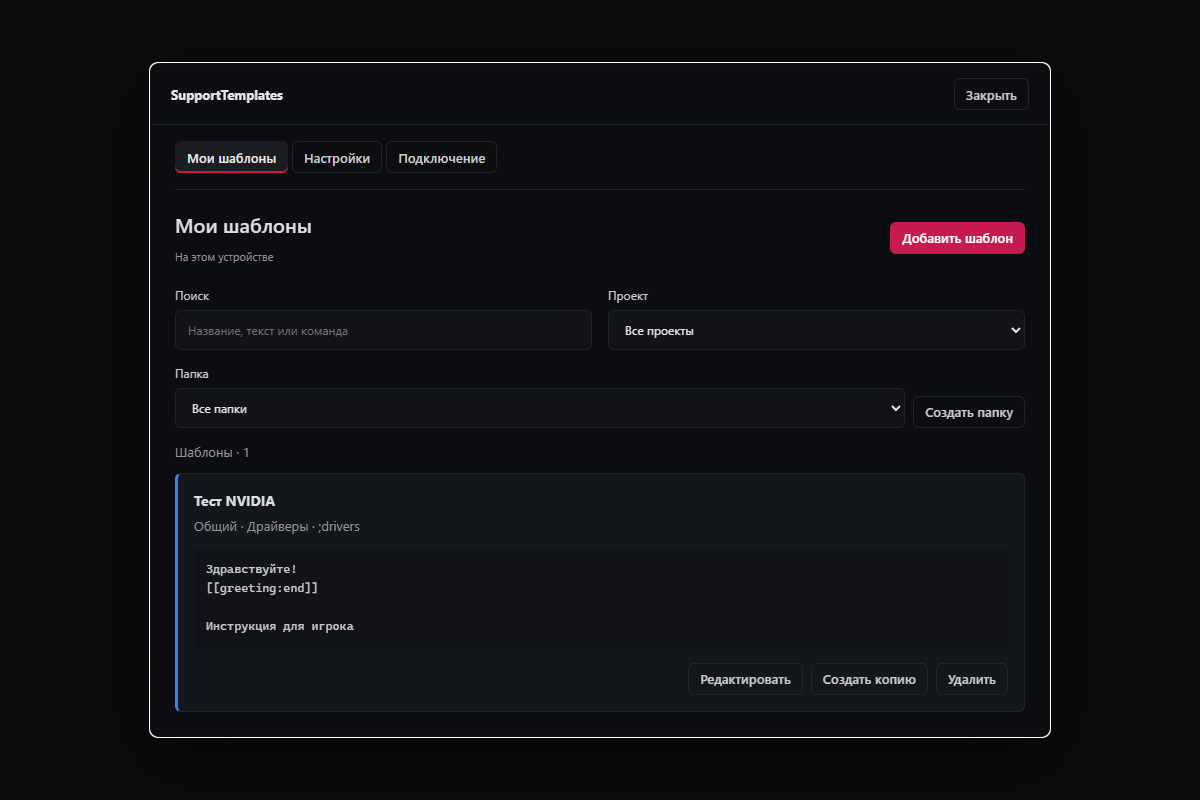
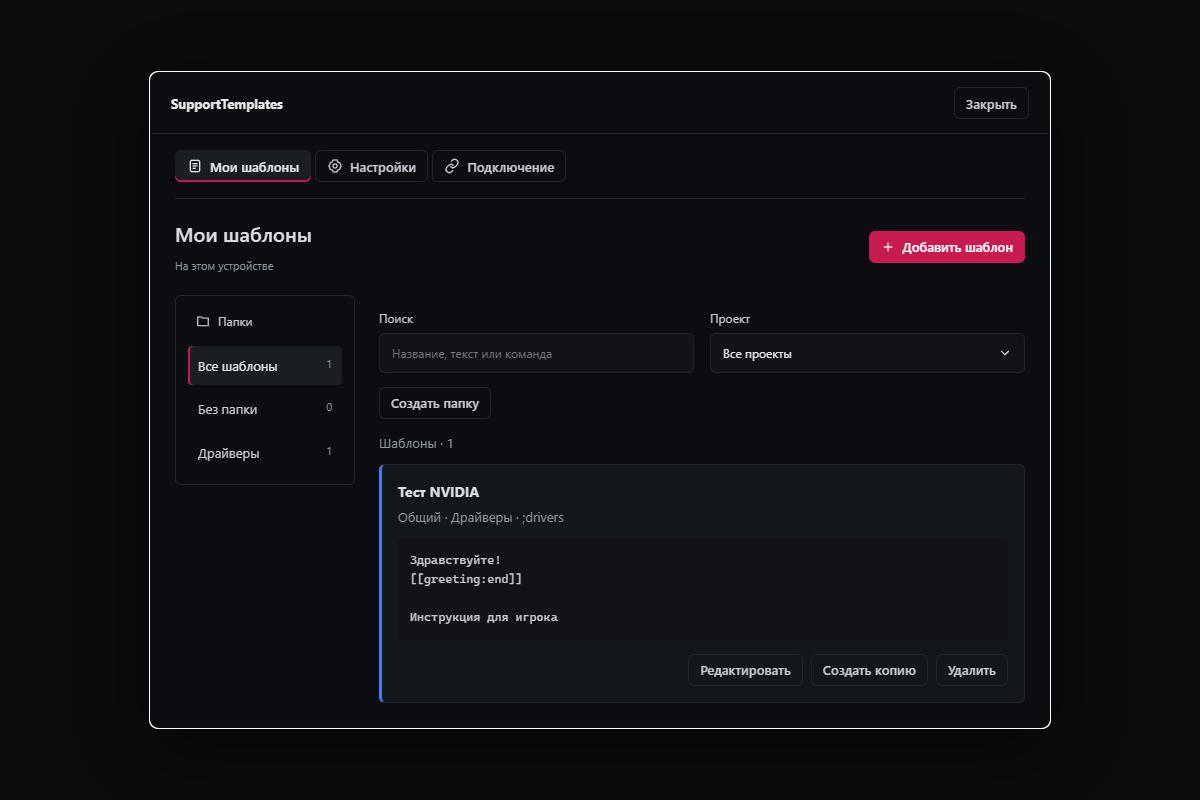
Polish template library and record live Discord demo acceptance

diff --git a/src/vencord/ui/PersonalLibrary.tsx b/src/vencord/ui/PersonalLibrary.tsx
@@ -10,6 +10,8 @@ import { PERSONAL_COLORS, PersonalDraft, PersonalTemplate } from "../core/person
 import { insertToken } from "../core/tokenEditor";
 import { ProjectId } from "../core/types";
 import { demo } from "./demo";
+import { Select } from "./Select";
+import { IconFolder, IconPlus } from "./svg";
 import { TokenToolbar } from "./TokenToolbar";
 import { store, useStore } from "./uiState";
 
@@ -73,7 +75,7 @@ export function PersonalLibrary({ onDirty }: { onDirty?(dirty: boolean): void; }
 
     return <section className="vc-stx-library">
         <div className="vc-stx-lib-title"><div><h3>Мои шаблоны</h3><span className="vc-stx-storage-note">{isDemo ? "Демо · до выхода" : "На этом устройстве"}</span></div>
-            {!editing && <button className="vc-stx-btn" disabled={!!folderEdit || busy} onClick={() => begin()}>Добавить шаблон</button>}</div>
+            {!editing && <button className="vc-stx-btn" disabled={!!folderEdit || busy} onClick={() => begin()}><IconPlus />Добавить шаблон</button>}</div>
         {error && <p role="alert" className="vc-stx-form-error">{error}</p>}
         {notice && <p role="status">{notice}</p>}
         {editing ? <form className="vc-stx-personal-form" onSubmit={e => { e.preventDefault(); void run(async () => {
@@ -95,8 +97,8 @@ export function PersonalLibrary({ onDirty }: { onDirty?(dirty: boolean): void; }
                     {PERSONAL_COLORS.map((c, i) => <button type="button" key={c} aria-label={COLOR_NAMES[i]} title={COLOR_NAMES[i]} aria-pressed={editing.draft.color === c} style={{ "--swatch": c } as React.CSSProperties} onClick={() => change({ color: c })}><span /></button>)}
                 </div>
                 <div className="vc-stx-form-grid">
-                    <label>Проект<select aria-label="Проект" value={editing.draft.project ?? "shared"} onChange={e => change({ project: e.currentTarget.value === "shared" ? null : e.currentTarget.value as ProjectId })}><option value="mj">Majestic</option><option value="ro">Россия Онлайн</option><option value="shared">Общий для двух проектов</option></select></label>
-                    <label>Папка<select aria-label="Папка" value={editing.draft.folderId ?? ""} onChange={e => change({ folderId: e.currentTarget.value || null })}><option value="">Без папки</option>{store.data.folders.map(f => <option key={f.id} value={f.id}>{f.name}</option>)}</select></label>
+                    <label>Проект<Select aria-label="Проект" value={editing.draft.project ?? "shared"} onChange={e => change({ project: e.currentTarget.value === "shared" ? null : e.currentTarget.value as ProjectId })}><option value="mj">Majestic</option><option value="ro">Россия Онлайн</option><option value="shared">Общий для двух проектов</option></Select></label>
+                    <label>Папка<Select aria-label="Папка" value={editing.draft.folderId ?? ""} onChange={e => change({ folderId: e.currentTarget.value || null })}><option value="">Без папки</option>{store.data.folders.map(f => <option key={f.id} value={f.id}>{f.name}</option>)}</Select></label>
                 </div>
                 <label>Команда (необязательно)<input maxLength={40} placeholder="Например: drivers" value={editing.draft.command ?? ""} onChange={e => change({ command: e.currentTarget.value || null })} /></label>
                 <p className="vc-stx-muted">Вызов в чате: {store.data.prefix}{editing.draft.command || "drivers"}</p>
@@ -104,8 +106,12 @@ export function PersonalLibrary({ onDirty }: { onDirty?(dirty: boolean): void; }
             {discard && <div className="vc-stx-local-note" role="alert">Отменить несохранённые изменения? <button type="button" className="vc-stx-btn vc-stx-ghost" onClick={close}>Отменить изменения</button><button type="button" className="vc-stx-btn vc-stx-ghost" onClick={() => setDiscard(false)}>Продолжить редактирование</button></div>}
             <div className="vc-stx-lib-actions vc-stx-editor-actions"><button type="button" className="vc-stx-btn vc-stx-ghost" disabled={busy} onClick={() => dirty ? setDiscard(true) : close()}>Назад</button><button type="submit" className="vc-stx-btn" disabled={busy}>{busy ? "Сохранение…" : "Сохранить"}</button></div>
         </form> : <>
-            <div className="vc-stx-form-grid"><label>Поиск<input value={query} onChange={e => setQuery(e.currentTarget.value)} placeholder="Название, текст или команда" /></label><label>Проект<select aria-label="Проект" value={project} onChange={e => setProject(e.currentTarget.value)}><option value="all">Все проекты</option><option value="mj">Majestic и общие</option><option value="ro">Россия Онлайн и общие</option></select></label></div>
-            <div className="vc-stx-folder-bar"><label>Папка<select aria-label="Папка" value={folder} onChange={e => setFolder(e.currentTarget.value)}><option value="all">Все папки</option><option value="none">Без папки</option>{store.data.folders.map(f => <option key={f.id} value={f.id}>{f.name}</option>)}</select></label>
+            <div className="vc-stx-library-layout"><aside className="vc-stx-folder-nav" aria-label="Папки шаблонов">
+                <span className="vc-stx-folder-heading"><IconFolder /> Папки</span>
+                {[{ id: "all", name: "Все шаблоны" }, { id: "none", name: "Без папки" }, ...store.data.folders].map(f => <button type="button" key={f.id} aria-pressed={folder === f.id} disabled={!!folderEdit || busy} onClick={() => setFolder(f.id)}><span>{f.name}</span><small>{store.data.personal.filter(t => f.id === "all" || (f.id === "none" ? !t.folderId : t.folderId === f.id)).length}</small></button>)}
+            </aside><div className="vc-stx-library-content">
+            <div className="vc-stx-form-grid"><label>Поиск<input value={query} onChange={e => setQuery(e.currentTarget.value)} placeholder="Название, текст или команда" /></label><label>Проект<Select aria-label="Проект" value={project} onChange={e => setProject(e.currentTarget.value)}><option value="all">Все проекты</option><option value="mj">Majestic и общие</option><option value="ro">Россия Онлайн и общие</option></Select></label></div>
+            <div className="vc-stx-folder-bar">
                 <button className="vc-stx-btn vc-stx-ghost" disabled={!!folderEdit || busy} onClick={() => { newFolderId.current = "folder:" + crypto.randomUUID(); setFolderEdit({ name: "" }); mark(true); }}>Создать папку</button>
                 {store.data.folders.some(f => f.id === folder) && <><button className="vc-stx-btn vc-stx-ghost" disabled={!!folderEdit || busy} onClick={() => { setFolderEdit({ id: folder, name: store.data.folders.find(f => f.id === folder)!.name }); mark(true); }}>Переименовать</button><button className="vc-stx-btn vc-stx-ghost" onClick={() => setRemove({ kind: "folder", id: folder, name: store.data.folders.find(f => f.id === folder)!.name })}>Удалить папку</button></>}
             </div>
@@ -114,6 +120,7 @@ export function PersonalLibrary({ onDirty }: { onDirty?(dirty: boolean): void; }
             <p className="vc-stx-muted">Шаблоны · {list.length}</p>
             {!list.length && <div className="vc-stx-library-empty"><h4>{store.data.personal.length ? "Нет совпадений" : "Здесь будут ваши ответы"}</h4><p>{store.data.personal.length ? "Измените поиск или фильтр папок." : "Нажмите «Добавить шаблон», чтобы создать первый ответ."}</p></div>}
             {list.map(t => <article key={t.id} className="vc-stx-personal-card" style={{ borderLeftColor: t.color ?? undefined }}><h4>{t.title}</h4><p className="vc-stx-muted">{t.project === "mj" ? "Majestic" : t.project === "ro" ? "Россия Онлайн" : "Общий"} · {store.data.folders.find(f => f.id === t.folderId)?.name ?? "Без папки"}{t.command && ` · ${store.data.prefix}${t.command}`}</p><pre>{t.text}</pre><div className="vc-stx-lib-actions"><button className="vc-stx-btn vc-stx-ghost" disabled={!!folderEdit || busy} onClick={() => begin(t)}>Редактировать</button><button className="vc-stx-btn vc-stx-ghost" disabled={!!folderEdit || busy} onClick={() => begin(t, true)}>Создать копию</button><button className="vc-stx-btn vc-stx-ghost" onClick={() => setRemove({ kind: "template", id: t.id, name: t.title })}>Удалить</button></div></article>)}
+            </div></div>
         </>}
     </section>;
 }

diff --git a/src/vencord/ui/Settings.tsx b/src/vencord/ui/Settings.tsx
@@ -6,13 +6,14 @@
 
 import { useState } from "@webpack/common";
 
-import { PREFIXES } from "../core/trigger";
+import { PREFIXES, validPrefix } from "../core/trigger";
 import { toast } from "../platform";
 import { demo } from "./demo";
 import { DemoConnection } from "./DemoConnection";
 import { confirmedForeign, supersede } from "./flow";
 import { nextGeneration } from "./op";
 import { PersonalLibrary } from "./PersonalLibrary";
+import { IconLink, IconSettings, IconTemplates } from "./svg";
 import { store, ui, useStore } from "./uiState";
 
 export function Settings({ onDirty }: { onDirty?(dirty: boolean): void; } = {}) {
@@ -21,6 +22,8 @@ export function Settings({ onDirty }: { onDirty?(dirty: boolean): void; } = {}) 
     const [tab, setTab] = useState("personal");
     const [dirty, setDirty] = useState(false);
     const [pending, setPending] = useState<string | null>(null);
+    const [prefix, setPrefix] = useState(store.data.prefix);
+    const [prefixError, setPrefixError] = useState("");
     const [status, setStatus] = useState("");
     const main = store.templates.filter(t => t.source !== "personal");
     const mj = main.filter(t => t.project === "mj").length;
@@ -54,7 +57,7 @@ export function Settings({ onDirty }: { onDirty?(dirty: boolean): void; } = {}) 
     return (
         <div className="vc-stx-settings">
             <nav className="vc-stx-settings-nav" aria-label="Разделы настроек">
-                {[["personal", "Мои шаблоны"], ["general", "Настройки"], ["connection", "Подключение"]].map(([id, label]) => <button key={id} className={"vc-stx-btn " + (tab === id ? "" : "vc-stx-ghost")} aria-pressed={tab === id} onClick={() => { if (id === tab) return; if (dirty) setPending(id); else setTab(id); }}>{label}</button>)}
+                {[["personal", "Мои шаблоны"], ["general", "Настройки"], ["connection", "Подключение"]].map(([id, label]) => <button key={id} className={"vc-stx-btn " + (tab === id ? "" : "vc-stx-ghost")} aria-pressed={tab === id} onClick={() => { if (id === tab) return; if (dirty) setPending(id); else setTab(id); }}>{id === "personal" ? <IconTemplates size={16} /> : id === "general" ? <IconSettings size={16} /> : <IconLink size={16} />}{label}</button>)}
             </nav>
             {pending && <div className="vc-stx-local-note" role="alert">Отменить изменения и сменить раздел? <button className="vc-stx-btn" onClick={() => { setTab(pending); setPending(null); setDirty(false); onDirty?.(false); }}>Отменить изменения</button><button className="vc-stx-btn vc-stx-ghost" onClick={() => setPending(null)}>Остаться</button></div>}
             {tab === "personal" && (!demoState.enabled || demoState.revision > 0) && <PersonalLibrary onDirty={v => { setDirty(v); onDirty?.(v); }} />}
@@ -67,8 +70,14 @@ export function Settings({ onDirty }: { onDirty?(dirty: boolean): void; } = {}) 
                 <p className="vc-stx-muted">В компактном окне удерживайте Shift для просмотра.</p>
                 <h4>Префикс команды</h4>
                 <div className="vc-stx-row" role="group" aria-label="Префикс команды">
-                    {PREFIXES.map(p => <button key={p} aria-pressed={store.data.prefix === p} className={"vc-stx-btn " + (store.data.prefix === p ? "" : "vc-stx-ghost")} onClick={() => store.setPrefix(p)}>{p}снр</button>)}
+                    {PREFIXES.map(p => <button key={p} aria-pressed={store.data.prefix === p} className={"vc-stx-btn " + (store.data.prefix === p ? "" : "vc-stx-ghost")} onClick={() => { store.setPrefix(p); setPrefix(p); setPrefixError(""); }}>{p}снр</button>)}
                 </div>
+                <form className="vc-stx-prefix-form" onSubmit={e => { e.preventDefault(); if (!validPrefix(prefix)) { setPrefixError("Один знак пунктуации, кроме /, @ и скобок."); return; } store.setPrefix(prefix); setPrefixError(""); }}>
+                    <label>Свой символ<input aria-label="Свой префикс" maxLength={1} value={prefix} onChange={e => setPrefix(e.currentTarget.value)} /></label>
+                    <button className="vc-stx-btn vc-stx-ghost" disabled={prefix === store.data.prefix}>Применить</button>
+                    <code>{store.data.prefix}команда</code>
+                </form>
+                {prefixError && <p role="alert" className="vc-stx-form-error">{prefixError}</p>}
             </section>
             <section className="vc-stx-setting-section">
                 <h3>Библиотека</h3>
@@ -82,10 +91,11 @@ export function Settings({ onDirty }: { onDirty?(dirty: boolean): void; } = {}) 
             </section>
             <section className="vc-stx-setting-section">
                 <h3>Доступные серверы</h3>
-                <div className="vc-stx-server-row"><span>Majestic</span><span>Majestic и общие</span></div>
-                <div className="vc-stx-server-row"><span>Россия Онлайн</span><span>Россия Онлайн и общие</span></div>
-                <div className="vc-stx-server-row"><span>Tech</span><span>Выбор проекта в меню</span></div>
-                <p className="vc-stx-muted">На остальных серверах и в ЛС плагин выключен.</p>
+                <div className="vc-stx-server-links">
+                    <a href="https://discord.com/channels/530693013622489088" target="_blank" rel="noreferrer">Majestic <IconLink /></a>
+                    <a href="https://discord.com/channels/1089530150540034181" target="_blank" rel="noreferrer">Россия Онлайн <IconLink /></a>
+                    <a href="https://discord.com/channels/1395915167040016545" target="_blank" rel="noreferrer">Tech <IconLink /></a>
+                </div>
             </section>
             </>}
         </div>

diff --git a/src/vencord/styles.css b/src/vencord/styles.css
@@ -356,4 +356,39 @@
 .vc-stx-personal-card pre { border-radius: 4px; background: var(--stx-input); }
 .vc-stx-editor-actions { position: sticky; bottom: -24px; padding: 14px 0; background: #0b0d10; border-top: 1px solid var(--stx-bd); z-index: 1; }
 .vc-stx-library-empty { border-style: solid; background: var(--stx-card); }
+.vc-stx-settings-nav .vc-stx-btn, .vc-stx-lib-title > button { display: inline-flex; align-items: center; gap: 7px; }
+.vc-stx-library-layout { display: grid; grid-template-columns: 180px minmax(0, 1fr); gap: 24px; }
+.vc-stx-library-content { min-width: 0; }
+.vc-stx-folder-nav { display: flex; flex-direction: column; gap: 4px; padding: 12px; border: 1px solid var(--stx-bd); border-radius: 6px; align-self: start; }
+.vc-stx-folder-heading { display: flex; align-items: center; gap: 8px; margin: 4px 8px 12px; color: var(--stx-mu); font-size: 12px; }
+.vc-stx-folder-nav button { display: flex; justify-content: space-between; gap: 8px; padding: 10px; border: 0; border-radius: 4px; background: transparent; color: var(--stx-mu); font: inherit; text-align: left; cursor: pointer; }
+.vc-stx-folder-nav button span { overflow-wrap: anywhere; }
+.vc-stx-folder-nav button:hover { background: var(--stx-acc); }
+.vc-stx-folder-nav button[aria-pressed=true] { background: var(--stx-acc); color: var(--stx-tx); box-shadow: inset 2px 0 var(--stx-pr); }
+.vc-stx-folder-nav small { color: var(--stx-mu2); }
+.vc-stx-select { position: relative; min-width: 0; }
+.vc-stx-select > button { display: flex; align-items: center; justify-content: space-between; gap: 10px; width: 100%; padding: 10px 12px; border: 1px solid var(--stx-bd); border-radius: 6px; background: var(--stx-input); color: var(--stx-tx); font: inherit; text-align: left; cursor: pointer; }
+.vc-stx-select > button span { overflow: hidden; text-overflow: ellipsis; white-space: nowrap; }
+.vc-stx-select > button svg { flex-shrink: 0; }
+.vc-stx-select-options { position: absolute; z-index: 5; top: calc(100% + 4px); left: 0; right: 0; max-height: 200px; overflow: auto; padding: 4px; background: var(--stx-card); border: 1px solid var(--stx-bd2); border-radius: 6px; box-shadow: 0 8px 24px #0006; }
+.vc-stx-select-options [role=option] { padding: 9px 10px; border-radius: 3px; cursor: pointer; overflow-wrap: anywhere; }
+.vc-stx-select-options .active { background: var(--stx-acc); }
+.vc-stx-select-options [aria-selected=true] { color: #f37fa3; }
+.vc-stx-select-up .vc-stx-select-options { top: auto; bottom: calc(100% + 4px); }
+.vc-stx-settings, .vc-stx-settings textarea, .vc-stx-select-options { scrollbar-color: #303641 transparent; scrollbar-width: thin; color-scheme: dark; }
+.vc-stx-prefix-form { display: flex; align-items: end; gap: 12px; flex-wrap: wrap; margin-top: 14px; }
+.vc-stx-prefix-form label { max-width: 130px; }
+.vc-stx-prefix-form code { align-self: center; color: var(--stx-mu); }
+.vc-stx-settings input[type=checkbox] { appearance: none; width: 17px; height: 17px; flex-shrink: 0; vertical-align: middle; border: 1px solid var(--stx-bd2); border-radius: 4px; background: var(--stx-input); cursor: pointer; }
+.vc-stx-settings input[type=checkbox]:checked { background: var(--stx-pr); border-color: var(--stx-pr); }
+.vc-stx-settings input[type=checkbox]:checked::after { content: ''; display: block; width: 7px; height: 4px; margin: 4px 3px; border: solid white; border-width: 0 0 2px 2px; transform: rotate(-45deg); }
+.vc-stx-settings :is(button, input[type=checkbox], a):focus-visible { outline: 2px solid var(--stx-ring); outline-offset: 2px; }
+.vc-stx-server-links { display: flex; flex-wrap: wrap; gap: 8px; }
+.vc-stx-server-links a { display: inline-flex; align-items: center; gap: 8px; padding: 9px 12px; border: 1px solid var(--stx-bd); border-radius: 6px; text-decoration: none; }
+.vc-stx-settings a.vc-stx-btn { color: white; text-decoration: none; }
+.vc-stx-connection-state { display: flex; align-items: center; gap: 8px; margin: 18px 0; }
+.vc-stx-connection-state > span { width: 7px; height: 7px; border-radius: 50%; background: var(--stx-mu2); }
+.vc-stx-connection-state.ready > span { background: #36c995; }
+.vc-stx-manage-link { display: flex; align-items: center; gap: 7px; padding: 6px 8px; border: 1px solid var(--stx-bd); border-radius: 5px; font-size: 12px; }
+@media (max-width: 650px) { .vc-stx-library-layout { grid-template-columns: 1fr; gap: 16px; } .vc-stx-folder-nav { flex-direction: row; flex-wrap: wrap; } .vc-stx-folder-heading { width: 100%; } }
 @media (max-width: 600px) { .vc-stx-editor-actions { bottom: -14px; } .vc-stx-settings-nav .vc-stx-btn { padding-inline: 8px; } }

diff --git a/src/vencord/ui/TokenToolbar.tsx b/src/vencord/ui/TokenToolbar.tsx
@@ -7,6 +7,7 @@
 import { useState } from "@webpack/common";
 
 import { fieldToken } from "../core/tokenEditor";
+import { Select } from "./Select";
 
 export function TokenToolbar({ capture, insert, hasBoundary }: { capture(): void; insert(token: string): boolean; hasBoundary: boolean; }) {
     const [kind, setKind] = useState<"field" | "list" | "date" | "time" | null>(null);
@@ -33,7 +34,6 @@ export function TokenToolbar({ capture, insert, hasBoundary }: { capture(): void
     };
     return <div className="vc-stx-token-tools">
         <div className="vc-stx-token-buttons" role="group" aria-label="Добавить переменную">
-            <button type="button" disabled title="Позиция каретки после вставки пока не поддерживается адаптером Discord">Каретка</button>
             <button type="button" onClick={() => open("field")}>Поле</button>
             <button type="button" onClick={() => open("list")}>Список</button>
             <button type="button" onClick={() => open("date")}>Дата</button>
@@ -46,7 +46,6 @@ export function TokenToolbar({ capture, insert, hasBoundary }: { capture(): void
             ].map(([label, token, hint]) => <button type="button" key={token} title={hint} onClick={() => { capture(); add(token); }}>{label}</button>)}
             <button type="button" disabled={hasBoundary} onClick={() => { capture(); add("\n[[greeting:end]]\n"); }}>Граница приветствия</button>
         </div>
-        <p className="vc-stx-muted">Каретка после вставки пока недоступна в Discord. Остальные переменные добавляются в позицию курсора или заменяют выделенный фрагмент.</p>
         {kind && <div className="vc-stx-token-builder" role="group" aria-label="Настройка переменной" onKeyDown={e => { if (e.key === "Enter" && e.target instanceof HTMLInputElement && !e.nativeEvent.isComposing) { e.preventDefault(); submit(); } }}>
             {kind === "field" || kind === "list" ? <>
                 <label>Имя поля<input autoFocus value={name} placeholder="Например: ник" onChange={e => setName(e.currentTarget.value)} /></label>
@@ -55,7 +54,7 @@ export function TokenToolbar({ capture, insert, hasBoundary }: { capture(): void
                 <p className="vc-stx-muted">При использовании шаблона появится форма заполнения. Одинаковое имя объединяет повторяющиеся поля.</p>
             </> : <>
                 <div className="vc-stx-form-grid"><label>Сдвиг относительно момента вставки<input autoFocus type="number" min={-10000} max={10000} step={1} value={offset} onChange={e => setOffset(e.currentTarget.value)} /></label>
-                    <label>Единица<select value={unit} onChange={e => setUnit(e.currentTarget.value)}><option value="m">Минуты</option><option value="h">Часы</option><option value="d">Дни</option><option value="w">Недели</option></select></label></div>
+                    <label>Единица<Select aria-label="Единица" value={unit} onChange={e => setUnit(e.currentTarget.value)}><option value="m">Минуты</option><option value="h">Часы</option><option value="d">Дни</option><option value="w">Недели</option></Select></label></div>
                 <p className="vc-stx-muted">{kind === "date" ? "Формат: ДД.ММ.ГГГГ." : "Формат: ЧЧ:ММ."} Ноль — текущее значение; отрицательное число — назад.</p>
             </>}
             {error && <p role="alert" className="vc-stx-form-error">{error}</p>}

diff --git a/src/vencord/ui/Select.tsx b/src/vencord/ui/Select.tsx
@@ -1,0 +1,56 @@
+/*
+ * Vencord, a Discord client mod
+ * Copyright (c) 2026 Vendicated and contributors
+ * SPDX-License-Identifier: GPL-3.0-or-later
+ */
+
+import { React, useRef, useState } from "@webpack/common";
+
+import { IconChevron } from "./svg";
+
+/** Controlled dropdown; native button focus and fieldset disabling are preserved. */
+export function Select({ value, onChange, children, "aria-label": label }: {
+    value: string;
+    onChange(e: { currentTarget: { value: string; }; }): void;
+    children: React.ReactNode;
+    "aria-label": string;
+}) {
+    const options = React.Children.toArray(children).filter(React.isValidElement) as React.ReactElement<{ value: string; children: React.ReactNode; }>[];
+    const [open, setOpen] = useState(false);
+    const [active, setActive] = useState(0);
+    const [up, setUp] = useState(false);
+    const root = useRef<HTMLDivElement>(null);
+    const button = useRef<HTMLButtonElement>(null);
+    const [id] = useState(() => "stx-select-" + crypto.randomUUID());
+    const selected = Math.max(0, options.findIndex(o => o.props.value === value));
+    const show = () => {
+        const rect = button.current?.getBoundingClientRect();
+        const bounds = root.current?.closest(".vc-stx-settings")?.getBoundingClientRect();
+        if (rect) {
+            const below = Math.min(innerHeight, bounds?.bottom ?? innerHeight) - rect.bottom;
+            const above = rect.top - Math.max(0, bounds?.top ?? 0);
+            setUp(below < Math.min(200, options.length * 38 + 8) && above > below);
+        }
+        setOpen(true);
+    };
+    const choose = (i: number) => { if (options[i]) onChange({ currentTarget: { value: options[i].props.value } }); setOpen(false); button.current?.focus(); };
+    return <div className={"vc-stx-select" + (up ? " vc-stx-select-up" : "")} ref={root} data-stx-select-open={open || undefined}
+        onBlur={e => { if (!e.currentTarget.contains(e.relatedTarget as Node)) setOpen(false); }}>
+        <button type="button" ref={button} role="combobox" aria-label={label} aria-expanded={open} aria-controls={id} aria-haspopup="listbox"
+            aria-activedescendant={open ? `${id}-${active}` : undefined}
+            onClick={() => { setActive(selected); if (open) setOpen(false); else show(); }}
+            onKeyDown={e => {
+                if (e.key === "Escape" && open) { e.preventDefault(); e.stopPropagation(); setOpen(false); }
+                else if (["ArrowDown", "ArrowUp", "Home", "End"].includes(e.key)) {
+                    e.preventDefault(); e.stopPropagation();
+                    setActive(e.key === "Home" ? 0 : e.key === "End" ? options.length - 1 : !open ? selected : (active + (e.key === "ArrowDown" ? 1 : -1) + options.length) % options.length);
+                    show();
+                } else if (open && (e.key === "Enter" || e.key === " ")) { e.preventDefault(); e.stopPropagation(); choose(active); }
+                else if (e.key === "Tab") setOpen(false);
+            }}><span>{options[selected]?.props.children}</span><IconChevron open /></button>
+        {open && <div id={id} role="listbox" aria-label={label} className="vc-stx-select-options">
+            {options.map((o, i) => <div key={o.props.value} id={`${id}-${i}`} role="option" aria-selected={value === o.props.value}
+                className={i === active ? "active" : ""} onMouseDown={e => e.preventDefault()} onMouseEnter={() => setActive(i)} onClick={() => choose(i)}>{o.props.children}</div>)}
+        </div>}
+    </div>;
+}

diff --git a/src/vencord/ui/DemoConnection.tsx b/src/vencord/ui/DemoConnection.tsx
@@ -9,17 +9,17 @@ import { connectDemo, demo, disableDemo, enableDemo, pauseDemo } from "./demo";
 export function DemoConnection() {
     const d = demo.use();
     const labels: Record<string, string> = { loading: "Загружаем шаблоны…", "load-error": "Повторяем загрузку библиотеки", idle: "Не подключён", connecting: "Подключение…", pending: "Ожидаем подтверждение", ready: "Библиотека загружена", denied: "Вы отказали в доступе", expired: "Код истёк", revoked: "Устройство отозвано", offline: "Нет связи" };
-    return <section className="vc-stx-setting-section"><h3>Подключение к панели</h3>
+    return <section className="vc-stx-setting-section"><h3>Аккаунт и синхронизация</h3>
         <p className="vc-stx-muted">Демо · изменения сохраняются до выхода или перезагрузки.</p>
-        {!d.enabled ? <button className="vc-stx-btn" onClick={() => enableDemo()}>Включить деморежим</button> : <>
-            <h4>{labels[d.phase]}</h4>
+        {!d.enabled ? <button className="vc-stx-btn" onClick={() => { enableDemo(); void connectDemo(true); }}>Войти через панель</button> : <>
+            <div className={"vc-stx-connection-state " + (d.phase === "ready" ? "ready" : "")} role="status"><span />{labels[d.phase]}</div>
             {d.error && <p role="alert">{d.error}</p>}
             {d.phase === "pending" && <p>Код подключения: <b>{d.code}</b></p>}
             {d.phase === "ready" && <p role="status">Версия библиотеки: {d.revision}</p>}
             <div className="vc-stx-lib-actions">
-                {["idle", "denied", "expired", "revoked"].includes(d.phase) && <button className="vc-stx-btn" onClick={() => void connectDemo()}>Начать вход</button>}
+                {["idle", "denied", "expired", "revoked"].includes(d.phase) && <button className="vc-stx-btn" onClick={() => void connectDemo(true)}>Начать вход</button>}
                 {d.url && <a className="vc-stx-btn" href={d.url} target="_blank" rel="noreferrer">Открыть панель</a>}
-                {["ready", "offline"].includes(d.phase) && d.url && <button className="vc-stx-btn vc-stx-ghost" onClick={pauseDemo}>{d.paused ? "Восстановить связь" : "Приостановить связь"}</button>}
+                {d.paused && <button className="vc-stx-btn vc-stx-ghost" onClick={pauseDemo}>Восстановить связь</button>}
                 <button className="vc-stx-btn vc-stx-ghost" onClick={disableDemo}>Выйти из деморежима</button>
             </div>
             <p className="vc-stx-muted">Личные шаблоны пока не синхронизируются с панелью.</p>

diff --git a/src/core/state.ts b/src/core/state.ts
@@ -9,7 +9,7 @@ import { importBackup, parseRaw } from "./importer";
 import { bindProblem, cleanBinds } from "./keys";
 import { PersonalDraft, PersonalFolder, PersonalTemplate, personalTemplate, readFolders, readPersonal } from "./personal";
 import { RankCtx } from "./rank";
-import { PREFIXES } from "./trigger";
+import { validPrefix } from "./trigger";
 import { ProjectId, Template, Usage } from "./types";
 
 export interface StorageLike {
@@ -76,7 +76,7 @@ export function sanitize(saved: Record<string, unknown>, templates: Template[]):
     d.binds = b.binds;
     if (b.dropped || ("binds" in saved && !isRecord(saved.binds))) fixed.push("binds");
     take("guilds", isRecord(saved.guilds), saved.guilds as Persisted["guilds"]);
-    take("prefix", typeof saved.prefix === "string" && (PREFIXES as readonly string[]).includes(saved.prefix), saved.prefix as string);
+    take("prefix", validPrefix(saved.prefix), saved.prefix as string);
     take("previewOpen", typeof saved.previewOpen === "boolean", saved.previewOpen as boolean);
     take("techProject", saved.techProject === "mj" || saved.techProject === "ro", saved.techProject as ProjectId);
     return { data: d, fixed };
@@ -276,7 +276,7 @@ export class Store {
     }
 
     setPrefix(p: string) {
-        if (!(PREFIXES as readonly string[]).includes(p)) throw new Error("Префикс: ; . , или !");
+        if (!validPrefix(p)) throw new Error("Используйте один символ: ! # $ % & * + . , : ; = ? ^ ~ _ -");
         this.data.prefix = p;
         this.changed();
     }

diff --git a/src/vencord/ui/Window.tsx b/src/vencord/ui/Window.tsx
@@ -21,7 +21,7 @@ import { latchKey } from "./keylatch";
 import { windowEditor } from "./op";
 import { plural, Preview } from "./Preview";
 import { ProjectIcon } from "./ProjectIcon";
-import { IconEnter, IconSearch, IconShift, IconStar } from "./svg";
+import { IconEnter, IconSearch, IconSettings, IconShift, IconStar } from "./svg";
 import { activeScope, listedProject, pickTechProject, poolFor, store, ui, useStore, watchChatArea } from "./uiState";
 
 /** Rows currently visible in the window — Alt+1…9 uses them while the window is open. */
@@ -459,7 +459,7 @@ function WindowView() {
                 {wide && <Preview t={current} onBack={compact ? back : undefined} />}
                 <div className="vc-stx-col">
                     <div className="vc-stx-head">
-                        <button className="vc-stx-manage-link" onClick={() => ui.set({ management: true, windowOpen: false, menu: null, inline: null })}>Мои шаблоны и настройки</button>
+                        <button className="vc-stx-manage-link" onClick={() => ui.set({ management: true, windowOpen: false, menu: null, inline: null })}><IconSettings size={16} /> Мои шаблоны и настройки</button>
                         <label className="vc-stx-search">
                             <span className="vc-stx-sicon"><IconSearch size={15} /></span>
                             <input

diff --git a/tests/trigger.test.ts b/tests/trigger.test.ts
@@ -1,7 +1,14 @@
 import { describe, expect, it } from "vitest";
-import { findTrigger } from "../src/core/trigger";
+import { findTrigger, validPrefix } from "../src/core/trigger";
 
 describe("trigger", () => {
+    it("accepts custom punctuation and escapes regex characters", () => {
+        for (const prefix of ["$", "^", "-", "?", "+"]) {
+            expect(validPrefix(prefix)).toBe(true);
+            expect(findTrigger(`${prefix}help`, prefix)).toEqual({ query: "help", length: 5 });
+        }
+        for (const prefix of ["/", "@", " ", "a", ";;", "["]) expect(validPrefix(prefix)).toBe(false);
+    });
     it("finds ;word at line start or after space", () => {
         expect(findTrigger(";снр", ";")).toEqual({ query: "снр", length: 4 });
         expect(findTrigger("текст ;лог", ";")).toEqual({ query: "лог", length: 4 });

diff --git a/src/vencord/ui/svg.tsx b/src/vencord/ui/svg.tsx
@@ -44,3 +44,8 @@ export const IconBack = ({ size }: P) => <Svg size={size}><path d="M19 12H5M11 6
 export const IconTemplates = ({ size }: P) => (
     <Svg size={size}><rect x="5" y="3.5" width="14" height="17" rx="2.5" /><path d="M9 8.5h6M9 12h6M9 15.5h3.5" /></Svg>
 );
+
+export const IconSettings = ({ size }: P) => <Svg size={size}><path d="M9 3h6l1 3 3 1 2 5-2 5-3 1-1 3H9l-1-3-3-1-2-5 2-5 3-1z" /><circle cx="12" cy="12" r="3" /></Svg>;
+export const IconFolder = ({ size }: P) => <Svg size={size}><path d="M3 7V5h6l2 2h10v13H3z" /></Svg>;
+export const IconLink = ({ size }: P) => <Svg size={size}><path d="M10 13a5 5 0 0 0 7 0l3-3a5 5 0 0 0-7-7l-2 2M14 11a5 5 0 0 0-7 0l-3 3a5 5 0 0 0 7 7l2-2" /></Svg>;
+export const IconPlus = ({ size }: P) => <Svg size={size}><path d="M12 5v14M5 12h14" /></Svg>;

diff --git a/src/vencord/ui/Management.tsx b/src/vencord/ui/Management.tsx
@@ -18,6 +18,7 @@ export function Management() {
         const previous = document.activeElement as HTMLElement;
         root.current?.focus();
         const key = (e: KeyboardEvent) => {
+            if (e.key === "Escape" && (e.target as HTMLElement)?.closest("[data-stx-select-open]")) return;
             if (e.key === "Escape") { e.preventDefault(); e.stopPropagation(); close(); }
             if (e.key === "Tab") {
                 const nodes = [...root.current!.querySelectorAll<HTMLElement>("button:not(:disabled), input:not(:disabled), textarea:not(:disabled), select:not(:disabled), summary, a[href], [tabindex='0']")].filter(el => el.getClientRects().length);

diff --git a/tests/state.test.ts b/tests/state.test.ts
@@ -9,6 +9,16 @@ const mem = (init: Record<string, unknown> = {}) => {
 };
 
 describe("Store", () => {
+    it("persists a custom prefix across reload", async () => {
+        const st = mem();
+        const s = new Store(st);
+        await s.load();
+        s.setPrefix("$");
+        await s.flush();
+        const reloaded = new Store(st);
+        await reloaded.load();
+        expect(reloaded.data.prefix).toBe("$");
+    });
     it("imports the 0.5.1 config and persists", async () => {
         const st = mem();
         const s = new Store(st);
